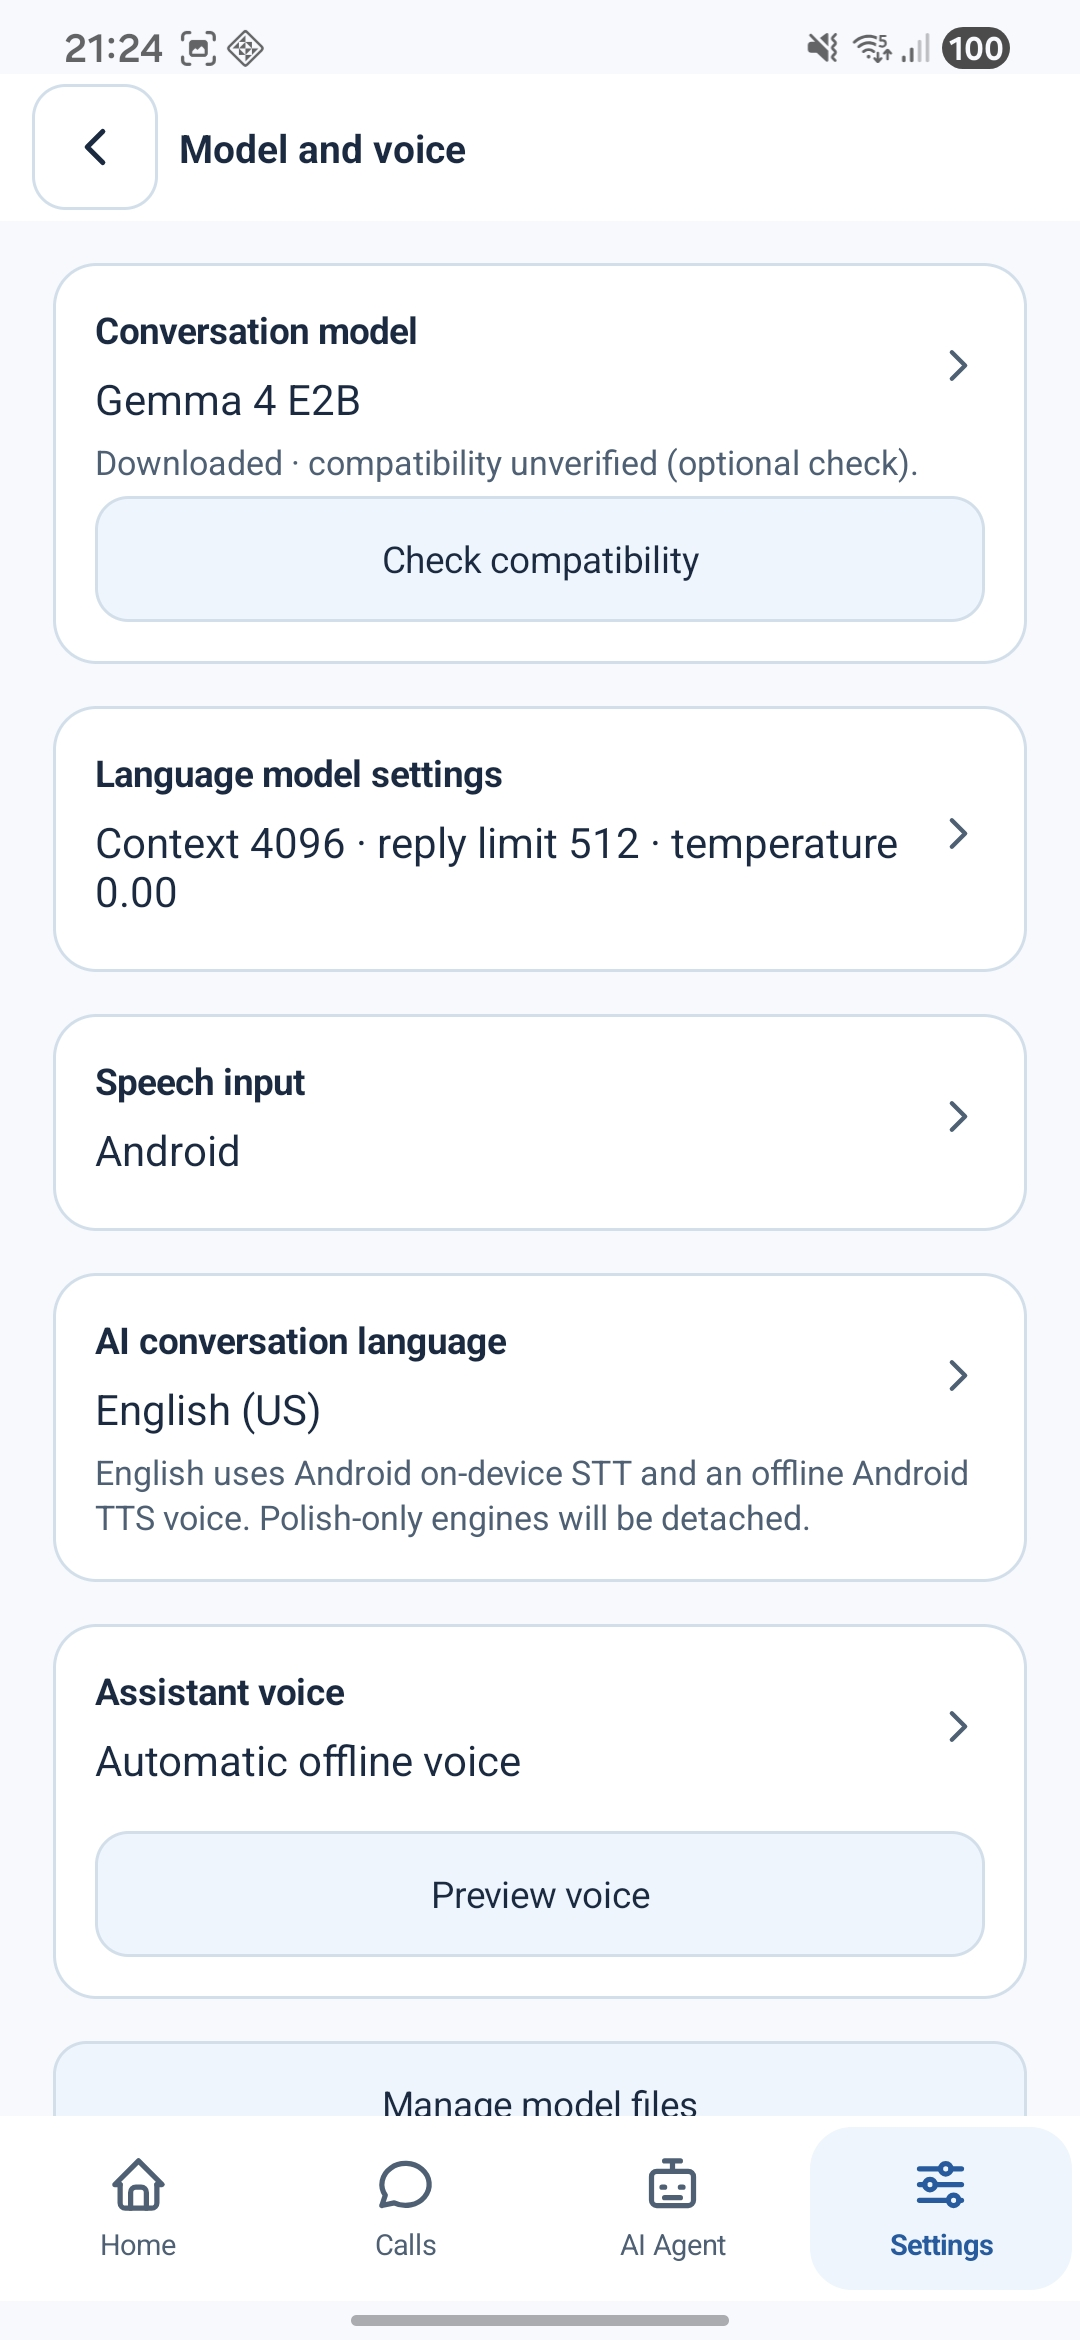
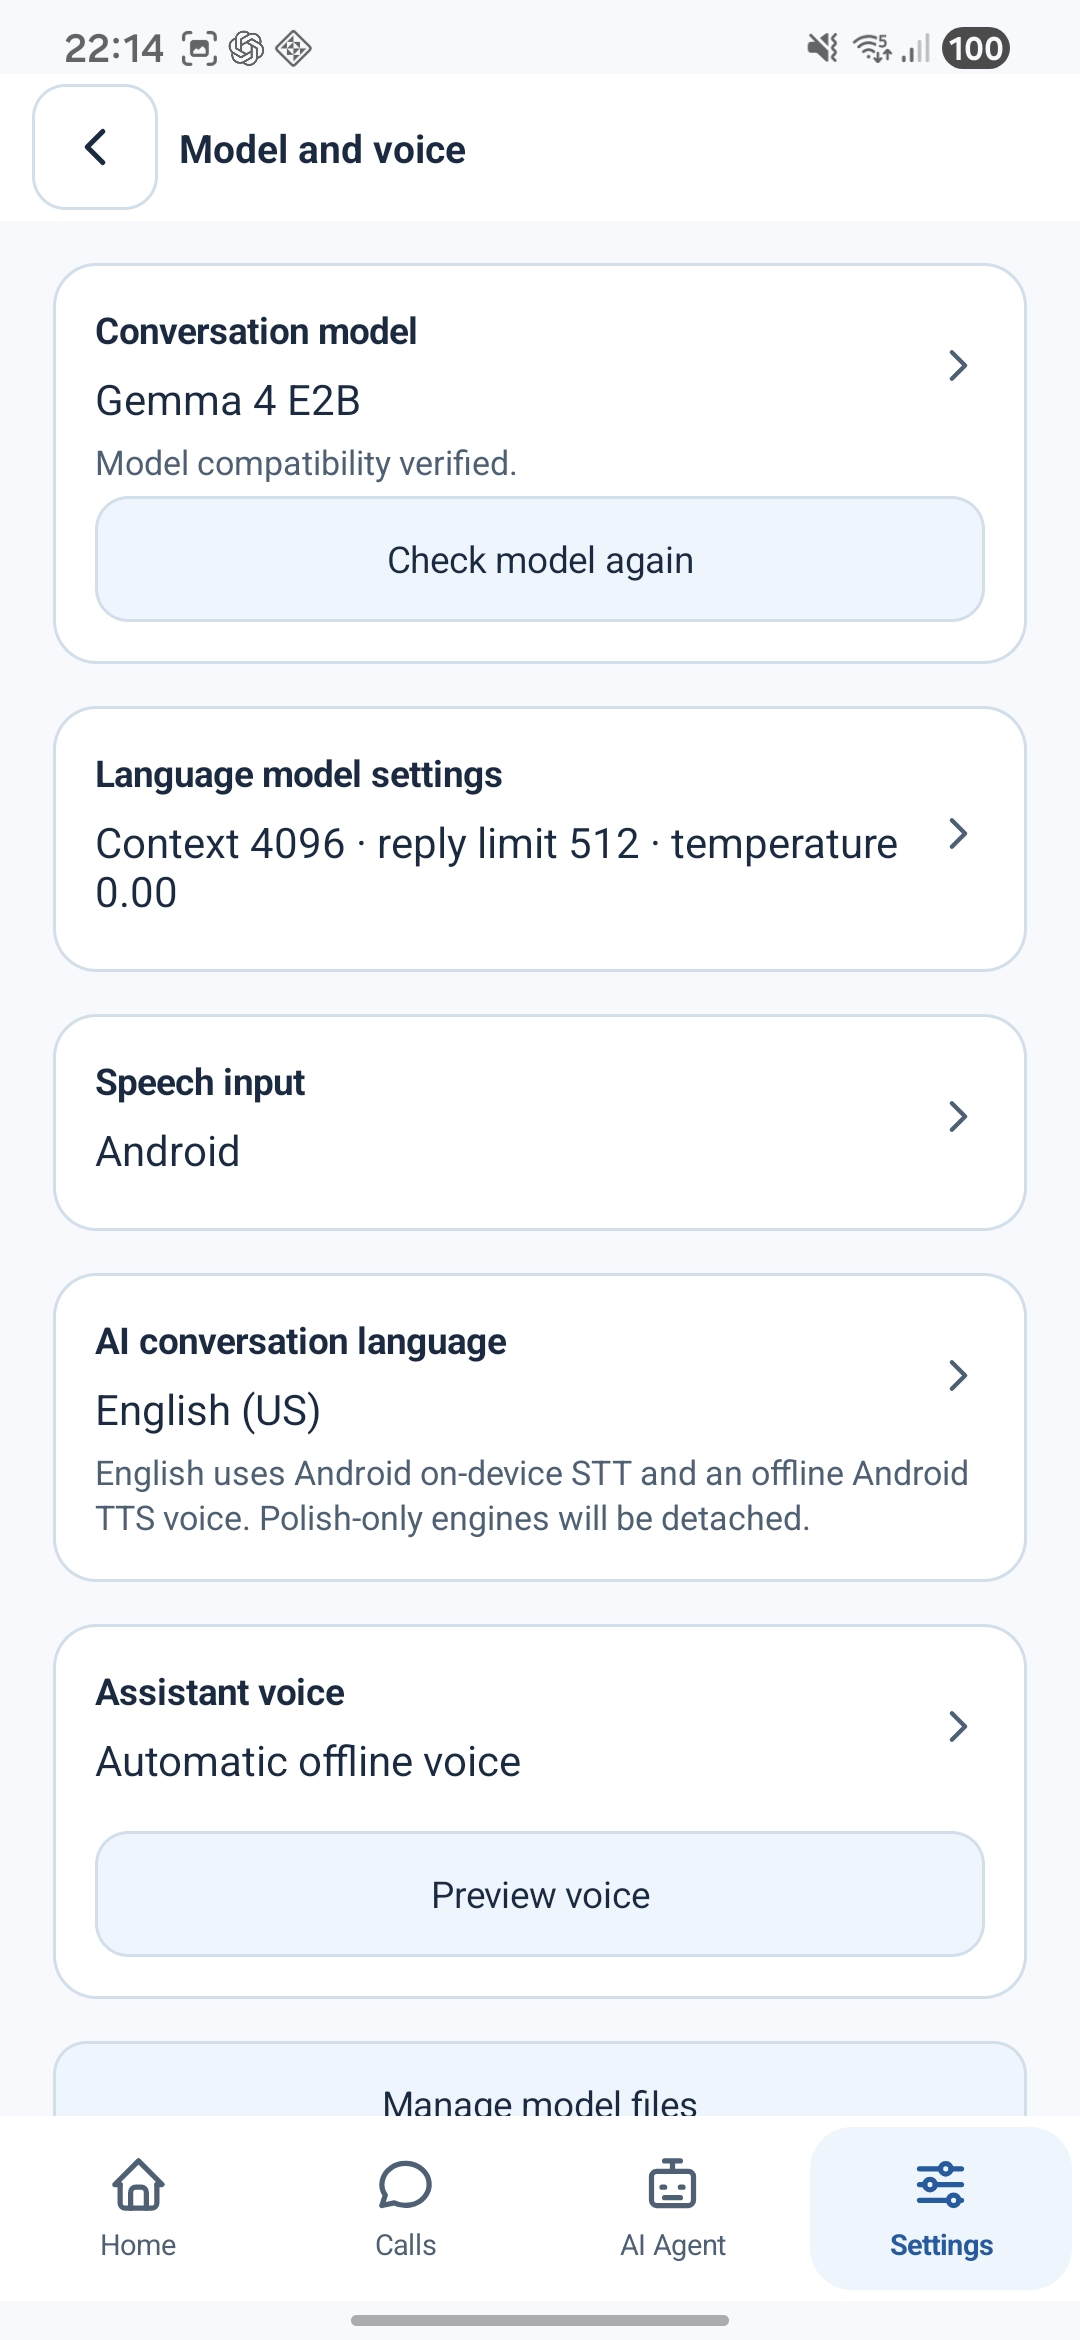
docs(setup): show language choice and verified model

diff --git a/README.md b/README.md
@@ -54,13 +54,15 @@ Pairing runs on the phone over Wi-Fi. Enter Android's six-digit code in the **AI
 3. Place a first incoming test call with a consenting caller. Check the greeting, a short reply and **STOP** takeover. In a separate call, check that a clear goodbye plays to completion before disconnecting.
 
 <p>
-  <img src="docs/images/setup/model-compatibility.jpg" width="280" alt="Downloaded Gemma 4 E2B with Check compatibility, language and voice controls">
+  <img src="docs/images/setup/model-compatibility.jpg" width="280" alt="Gemma 4 E2B with Model compatibility verified and English (US) selected">
   <img src="docs/images/setup/sim-and-answering.jpg" width="280" alt="Answering calls settings with the SIM selector and optional WAV recording">
 </p>
 
 ### English and Polish
 
 English is the default. Choose **English** or **Polish** under **Settings → App and conversation language**. The in-app selection changes the interface, built-in instructions, speech recognition, and voice for new conversations. Both languages use the same Gemma model. Your own instructions and task text keep the words you entered. Review the approval if an outgoing task was saved in the other language.
+
+<img src="docs/images/setup/language-selection.jpg" width="280" alt="App and conversation language menu showing English and Polish">
 
 ### Restore service or switch to manual
 
